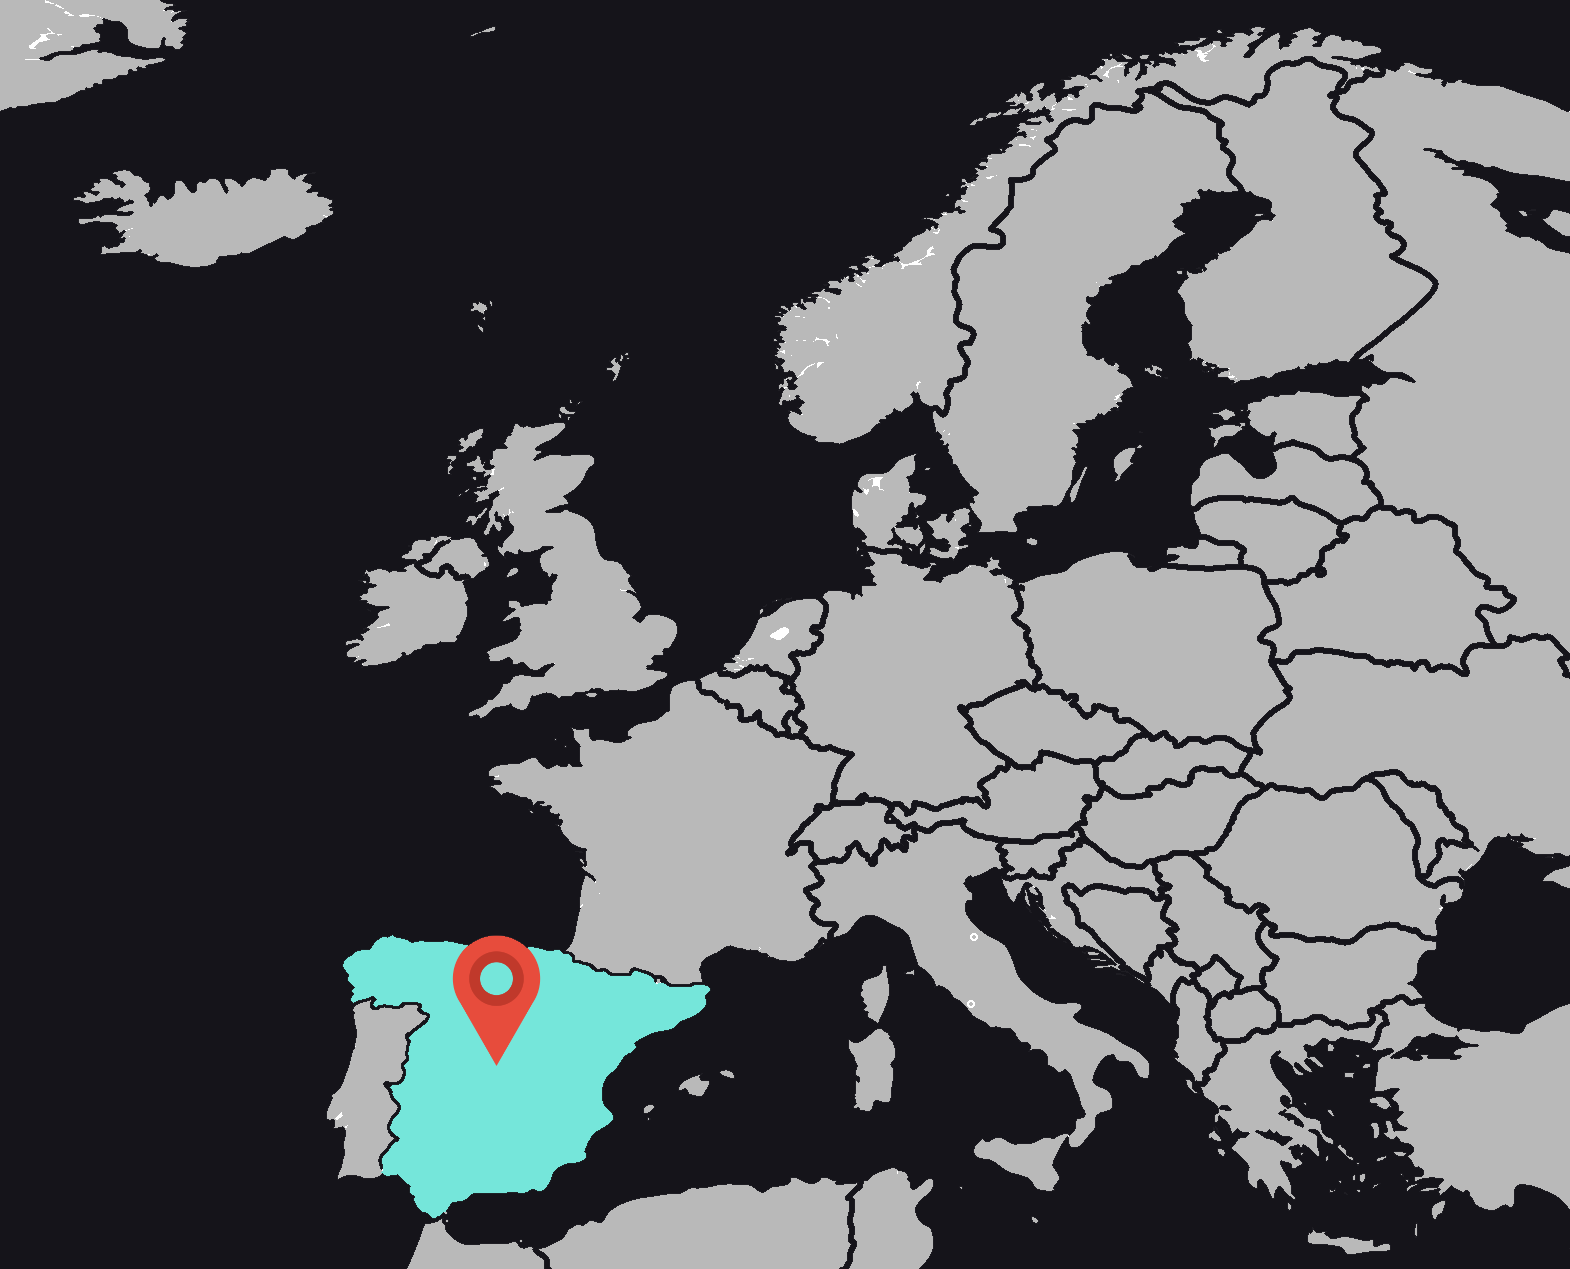
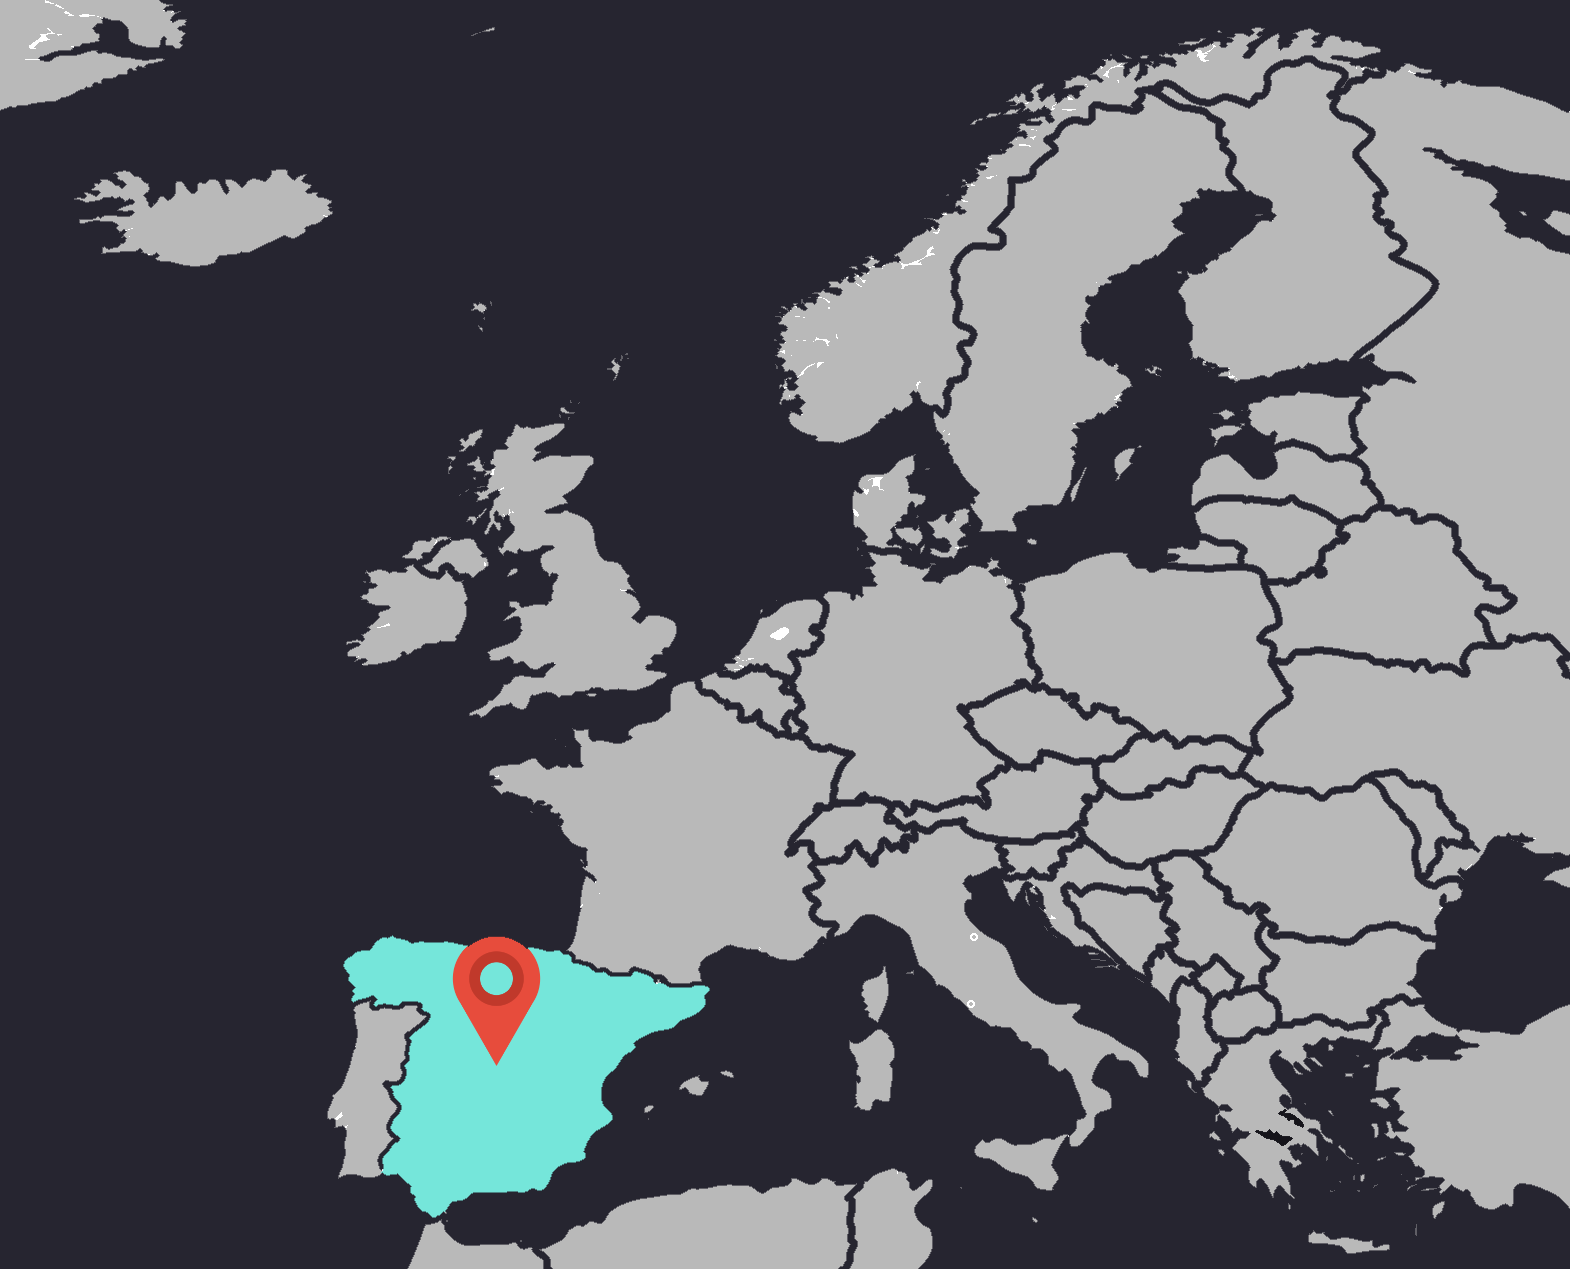
first commit

Changed region(s): [[0.8427, 0.0307, 0.8739, 0.0615], [0.7178, 0.6761, 0.749, 0.7069]]

diff --git a/style.css b/style.css
@@ -1,28 +1,48 @@
 body {
-    background-color: #15141A;
+    /*background-color: #15141A;*/
+    background-color: #262530;
 }
 
 nav {
     display: flex;
     justify-content: space-between, space-around;
-    
+    position: fixed;
+    background-color: #1c1b24;
+    margin-top: -8px;
+    margin-left: -20px;
 }
 #perslogo {
-    margin-left: 10px;
+    margin-left: 30px;
+    margin-top: 10px;
+    margin-bottom: 10px;
 }
 .btn-nav {
     display: flex;
     justify-content: space-between, space-around;
-    margin-left: auto;
+    margin-left: 680px;
     margin-right: 50px;
+    margin-top: 10px;
 }
 .btn-nav button {
+    float: left;
     margin-left: 50px;
     background-color: transparent;
     border: none;
     font-family: 'Rubik', sans-serif;
     font-size: 18px;
     color: #75E6DA;
+    height: 40px;
+}
+.btn-nav button:hover {
+    /*box-shadow: 1px 1px 1px white;*/
+    box-shadow: 0 0px 11px 0 #75E6DA;
+    border-radius: 6px;
+    background-color: #75E6DA;
+    color: #15141A; 
+    
+}
+.btn-nav button:active {
+    transform: translateY(2px);
 }
 
 .portada {
@@ -62,8 +82,20 @@ nav {
     margin-top: 180px;
     margin-right: 30px;
 }
-#logo {
+#logogit, #logolink, #logogmail {
     margin-bottom: 20px;
+}
+#logogit:hover {  
+    content: url('Images/github_logo_blue.png');
+}
+#logolink:hover {
+    content: url('Images/linkedin_logo_blue.png');
+}
+#logogmail:hover {
+    content: url('Images/email_logo_blue.png');
+}
+#logogit:active, #logolink:active, #logogmail:active {
+    transform: translateY(2px);
 }
 
 #titulo {
@@ -89,7 +121,7 @@ nav {
 .skills-content {
     display: grid;
     grid-template-columns: auto auto auto;
-    margin-left: 10%;
+    margin-left: 14%;
     margin-top: 80px;
 }
 .skills-item {
@@ -118,11 +150,16 @@ nav {
     'footer1 footer2';
     /*background-color: #05445E;
     background-color: #042735;*/
-    background-color: #262530;
+    background-color: #363442;
     /*border-style: solid;
-    border-width: 1px;
+    border-w    idth: 1px;
     border-color: #75E6DA;*/
     border-radius: 4px;
+    border: 1px solid #363442; 
+}
+.projects-item:hover {
+    border-color: #75E6DA;
+    box-shadow: 0px 0px 8px 0px #75E6DA;
 }
 .item1 { 
     grid-area: header1;
@@ -152,6 +189,9 @@ nav {
 #web {
     border-radius: 4px; 
 }
+#web:hover {
+    box-shadow: 0px 0px 1px 0px white;
+}
 .item5 { 
     grid-area: footer1; 
     font-size: 10px;
@@ -168,12 +208,13 @@ nav {
     border-top-left-radius: 10px;
     border-bottom-left-radius: 10px;
     color: black;
-    font-size: 10px;
+    font-size: 15px;
     text-align: center;
+    
 }
 .item5 #JS1:hover {
-    height: 12px;
-    margin-top: -3px;
+    height: 10px;
+    margin-top: -2px;
 }
 .item5 #CSS1{
     width: 60px;
@@ -181,12 +222,12 @@ nav {
     background-color: #563d7c;
     border: none;
     color: black;
-    font-size: 10px;
+    font-size: 15px;
     text-align: center;
 }
 .item5 #CSS1:hover {
-    height: 12px;
-    margin-top: -3px;
+    height: 10px;
+    margin-top: -2px;
 }
 .item5 #HTML1{
     width: 40px;
@@ -196,12 +237,12 @@ nav {
     border-top-right-radius: 10px;
     border-bottom-right-radius: 10px;
     color: black;
-    font-size: 10px;
+    font-size: 15px;
     text-align: center;
 }
 .item5 #HTML1:hover {
-    height: 12px;
-    margin-top: -3px;
+    height: 10px;
+    margin-top: -2px;
 }
 .item6 { 
     grid-area: footer2; 
@@ -220,12 +261,16 @@ nav {
     font-size: 11px;
     font-family: 'Ubuntu', sans-serif;
 }
+#projects-code:hover {
+    border-color: #75E6DA;
+    color: #75E6DA;;
+}
 
 .contact {
     margin-top: 0px;
     margin-left: 5%;
     margin-right: 5%;
-    margin-bottom: 10%;
+    margin-bottom: 5%;
 }
 .contact-content {
     display: grid;
@@ -245,10 +290,12 @@ nav {
 .contact-social1 img {
     margin-top: 5px;
     margin-left: 40px;
+    margin-bottom: 10px;
 }
 .contact-social img {
     margin-top: 5px;
     margin-left: 40px;
+    margin-bottom: 10px;
 }
 #contact-p {
     margin-left: 15px;
@@ -264,4 +311,7 @@ nav {
 }
 .contact-map {
     margin-top: 15px;
+}
+#map {
+    border-radius: 2px;
 }

diff --git a/index.html b/index.html
@@ -15,6 +15,7 @@
         <link href="https://fonts.googleapis.com/css2?family=Comfortaa:wght@500&display=swap" rel="stylesheet">
         <link href="https://fonts.googleapis.com/css2?family=Secular+One&display=swap" rel="stylesheet">
         <link href="https://fonts.googleapis.com/css2?family=Ubuntu&display=swap" rel="stylesheet">
+        <link href="https://fonts.googleapis.com/css2?family=Yanone+Kaffeesatz&display=swap" rel="stylesheet">
     </head>
     <body>
         <!--NAV-->
@@ -39,11 +40,11 @@
             </section>
     
             <aside class = "social">
-                <a target="_blank" href="https://github.com/goloro"><img id = "logo" src = "Images/github_logo.png" alt = "Logo GitHub" width = "30" height = "30"></a>
+                <a target="_blank" href="https://github.com/goloro"><img id = "logogit" src = "Images/github_logo.png" alt = "Logo GitHub" width = "30" height = "30"></a>
                 <br>
-                <a target="_blank" href="https://www.linkedin.com/in/gonzalo-lópez-rodríguez-b919101ba/"><img id = "logo" src = "Images/linkedin_logo.png" alt = "Logo Linkedin" width = "30" height = "30"></a>
+                <a target="_blank" href="https://www.linkedin.com/in/gonzalo-lópez-rodríguez-b919101ba/"><img id = "logolink" src = "Images/linkedin_logo.png" alt = "Logo Linkedin" width = "30" height = "30"></a>
                 <br>
-                <img id = "logo" src = "Images/email_logo.png" alt = "Logo Email" width = "30" height = "25">
+                <img id = "logogmail" src = "Images/email_logo.png" alt = "Logo Email" width = "30" height = "25">
             </aside>
         </div>
 
@@ -96,9 +97,9 @@
                         <a target="_blank" href="https://goloro.github.io/ToDoList/"><img id = "web" src = "Images/Webs/todolist.png" alt = "WebToDoList" width = "150" height = "100"></a>
                     </div>
                     <div class="item5">
-                        <button id="JS1" onmouseover="ONhoverLenguajesJS()" onmouseout="OFFhoverLenguajesJS()"></button>
-                        <button id="CSS1" onmouseover="ONhoverLenguajesCSS()" onmouseout="OFFhoverLenguajesCSS()"></button>
-                        <button id="HTML1" onmouseover="ONhoverLenguajesHTML()" onmouseout="OFFhoverLenguajesHTML()"></button>
+                        <button id="JS1"></button>
+                        <button id="CSS1"></button>
+                        <button id="HTML1"></button>
                     </div>
                     <div class="item6">
                         <a id="projects-code" target="_blank" href = "https://github.com/goloro/ToDoList">View Code</a>
@@ -118,7 +119,7 @@
                         <a target="_blank" href="https://goloro.github.io/ApiConsults/"><img id = "web" src = "Images/Webs/todolist.png" alt = "WebToDoList" width = "150" height = "100"></a>
                     </div>
                     <div class="item5">
-                        <button  id="JS"></button>
+                        <button id="JS"></button>
                         <button id="CSS"></button>
                         <button id="HTML"></button>
                     </div>
@@ -148,12 +149,9 @@
                     </div>
                 </div>
                 <div class="contact-map">
-                    <img id = "logo" src = "Images/mapa-europa.png" alt = "Map" width = "450" height = "300">
+                    <img id = "map" src = "Images/mapa-europa.png" alt = "Map" width = "450" height = "300">
                 </div>
             </div>
         </div>
-        
-        <!--SCRIPT-->
-        <script src = "script.js"></script>
     </body>
 </html>
